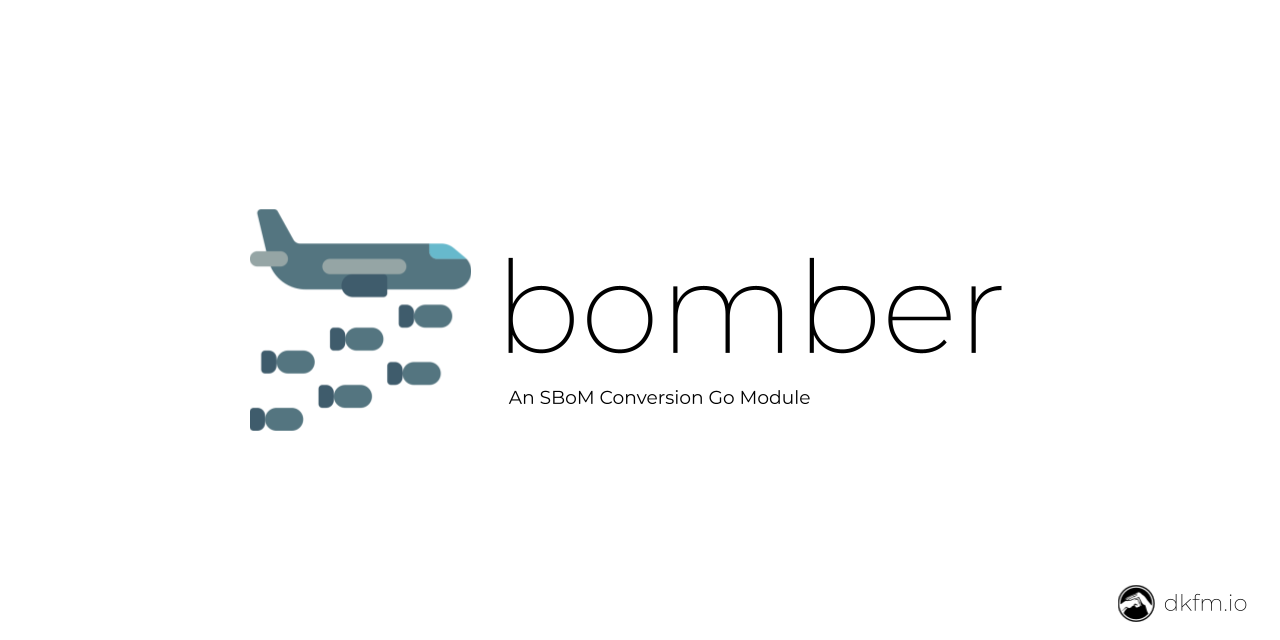
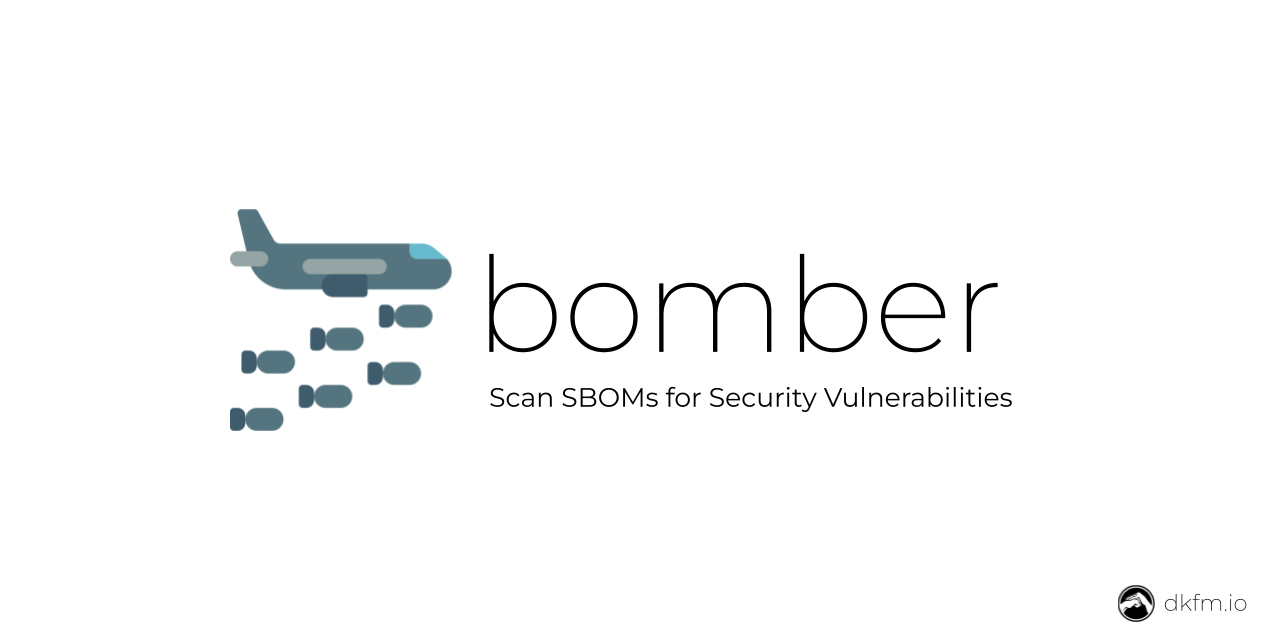
Updated documentation

Changed region(s): [[0.1562, 0.3125, 0.7812, 0.6875], [0.375, 0.5938, 0.7812, 0.6562]]

diff --git a/README.md b/README.md
@@ -1,7 +1,7 @@
 ![](img/bomber128x128.png)
 
 # bomber
-[![](https://img.shields.io/badge/Status-ALPHA-yellow)](CONTRIBUTING.md)
+[![](https://img.shields.io/badge/Status-BETA-yellow)](CONTRIBUTING.md)
 [![GoDoc](https://godoc.org/github.com/devops-kung-fu/bomber?status.svg)](https://pkg.go.dev/github.com/devops-kung-fu/bomber)
 ![GitHub release (latest by date)](https://img.shields.io/github/v/release/devops-kung-fu/bomber) 
 [![Go Report Card](https://goreportcard.com/badge/github.com/devops-kung-fu/bomber)](https://goreportcard.com/report/github.com/devops-kung-fu/bomber) 
@@ -13,7 +13,89 @@
 
 ## Overview
 
-* Uses Sonatype OSS Index
+So you've asked a vendor for an Software Bill of Materials (SBOM) for one of their products, and they provided one to you in a JSON file... now what? 
+
+The first thing you're going to want to do is see if any of the components listed inside the SBOM have security vulnerabilities. This will help you identify what kind of risk you will be taking on by using the product. Finding security vulnerabilities for components identified in an SBOM is exactly what ```bomber``` is meant to do. It can read any JSON based SPDX, CycloneDX, or Syft format SBOM and tell you pretty quickly if there are any vulnerabilities. 
+
+Powered by the [Sonatype OSS Index](https://ossindex.sonatype.org), ```bomber``` can tell you what the component is used for, how many vulnerabilities it has, and what they are.
+
+All you need is to download and install ```bomber``` and get yourself a free account for accessing the [Sonatype OSS Index](https://ossindex.sonatype.org).
+
+### What ecosystems are supported?
+
+Since ```bomber``` uses the [Sonatype OSS Index](https://ossindex.sonatype.org), it will give results for the ecosystems that it supports. At this time, the following can be scanned with ```bomber```
+
+- Maven
+- NPM
+- Go
+- PyPi
+- Nuget
+- RubyGems
+- Cargo
+- CocoaPods
+- Composer
+- Conan
+- Conda
+- CRAN
+- RPM
+- Swift
+
+## Prerequisites
+
+In order to use ```bomber``` you need to get an account for the [Sonatype OSS Index](https://ossindex.sonatype.org). Head over to the site, and create a free account, and make note of your ```username``` (this will be the email that you registered with). 
+
+Once you log in, you'll want to navigate to your [settings](https://ossindex.sonatype.org/user/settings) and make note of your API ```token```. **Please don't share your token with anyone. **
+
+## Installation
+
+### Mac
+
+You can use [Homebrew](https://brew.sh) to install ```bomber``` using the following:
+
+``` bash
+brew tap devops-kung-fu/homebrew-tap
+brew install devops-kung-fu/homebrew-tap/bomber
+```
+
+### Linux
+
+To install ```bomber```,  [download the latest release](https://github.com/devops-kung-fu/hookz/releases), extract the binary from the compressed file, make is executable, rename it to ```bomber``` and toss it in your ```/usr/local/bin``` directory for Linux, or on your path for other operating systems.
+
+
+## Using bomber
+
+Now that we've installed ```bomber``` and have our ```username``` and ```token``` from the [Sonatype OSS Index](https://ossindex.sonatype.org), we can scan an SBOM for vulnerabilities.
+
+You can scan either an entire folder of SBOMs or an individual SBOM with ```bomber```.  ```bomber``` doesn't care if you have multiple formats in a single folder. It'll sort everything out for you.
+
+### Single SBOM scan
+
+``` bash
+bomber scan --username=xxx --token=xxx spdx-sbom.json
+```
+
+If there are vulnerabilities you'll see an output similar to the following:
+
+![](img/bomber-example.png)
+
+If the [Sonatype OSS Index](https://ossindex.sonatype.org) doesn't return any vulnerabilities you'll see something like the following:
+
+![](img/bomber-example-novulns.png)
+
+### Entire folder scan
+
+This is good for when you receive multiple SBOMs from a vendor for the same product. Or, maybe you want to find out what vulnerabilities you have in your entire organization. A folder scan will find all components, de-duplicate them, and then scan them for vulnerabilities.
+
+```bash
+# scan a folder of SBOMs (the following command will scan a folder in your current folder named "sboms")
+bomber scan --username=xxx --token=xxx ./sboms
+```
+
+You'll see a similar result to what a Single SBOM scan will provide.
+
+### Advanced stuff
+
+If you wish, you can set two environment variables to store your credentials, and not have to type them on the command line. Check out the [Environment Variables](####Environment-Variables) information later in this README.
 
 ## Development
 
@@ -54,17 +136,13 @@ Remember that this is a go module, so there is no entry point. You can execute a
 The testing framework is set up to use environment variables that are found in a file called ```test.env``` in the **root directory** of the project. This file has been added to the ```.gitignore``` file in this project so it will be ignored if it exists in your file structure when committing the code. If you are running tests, this file should exist and have the following values configured:
 
 ``` bash
-
 BOMBER_PROVIDER_USERNAME={{your OSS Index user name}}
-BOMBER_PROVIDER_TOKEN={{your OSS Index API Key}}
-
+BOMBER_PROVIDER_TOKEN={{your OSS Index API Token}}
 ```
 To load this file, you use the following command in your terminal before opening an editor such as Visual Studio Code (from your terminal).
 
 ``` bash
-
   export $(cat *.env)
-
 ```
 
 ## Software Bill of Materials
@@ -76,3 +154,5 @@ The current CycloneDX SBoM for ```bomber``` is available [here](bomber-cyclonedx
 ## Credits
 
 A big thank-you to our friends at [Smashicons](https://www.flaticon.com/authors/smashicons) for the ```bomber``` logo.
+
+Big kudos to our OSS homies at [Sonatype](https://sonatype.com) for providing a wicked tool like the [Sonatype OSS Index](https://ossindex.sonatype.org).
